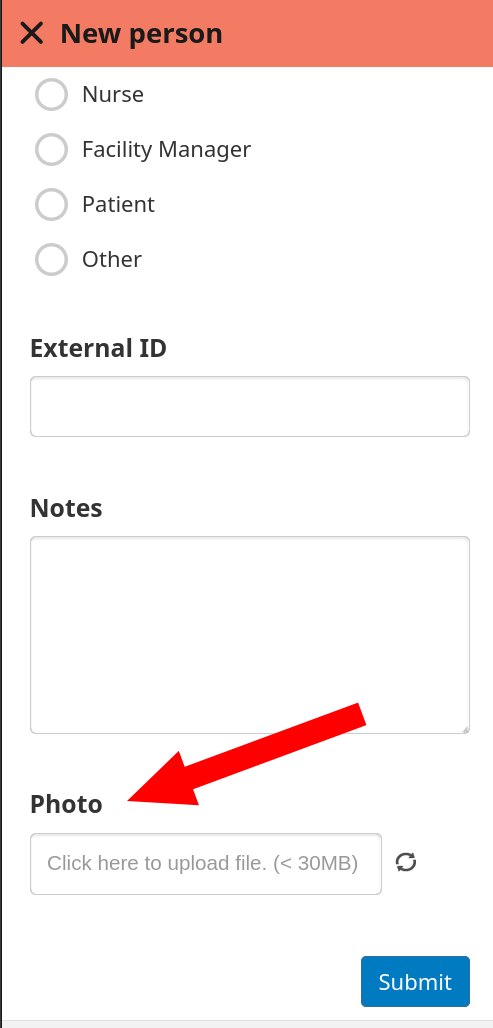
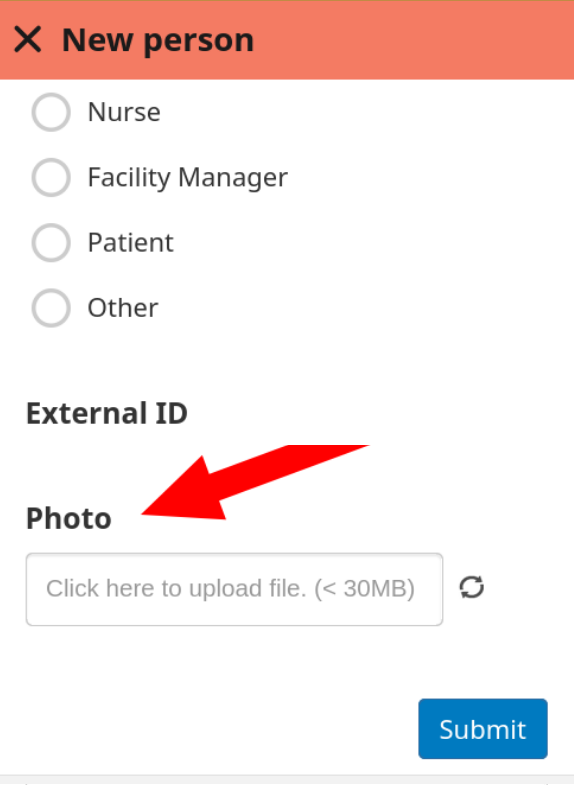
add more images more write ups

diff --git a/content/en/releases/5_1_0.md b/content/en/releases/5_1_0.md
@@ -35,7 +35,7 @@ Tasks continue to be an important way that CHWs interact with the CHT to know wh
 
 ### Attachments on contacts
 
-While attachments have been possible on 
+While attachments [have been possible](/building/forms/app/#uploading-binary-attachments) on app forms for some time, this feature is now available on contact forms too. This enables deployments that need to attach, for example, a photo of a person or household to a contact.  The [documentation has more information](/building/forms/contact/#uploading-binary-attachments) or check out [the video](https://github.com/medic/cht-core/issues/10509#issuecomment-3848114424) showing how it works.
 
 {{< cards >}}
 {{< card  image="../images/5_1_0_contact_attachment.png" method="resize" title="A contact form with a 'Photo' field enabling an attachment">}}
@@ -43,11 +43,25 @@ While attachments have been possible on
 
 ### Android notifications
 
+Some time ago, a member of the CHT community reached out to talk about the importance of native [Android notifications](https://developer.android.com/develop/ui/views/notifications/build-notification) that can exist outside the CHT:
+
+> CHT ... needs to have some notifications for users as a way to remind ... users on app activities such as pending tasks and incoming messages. Currently the user needs to open the app's tasks/messages tab to get and update on these items. A notification feature can help in the usability by managing interactions with the app.
+ 
+The requirement of launching the CHT to see what was important was holding back users. This is now solved in 5.1.0 with the introduction of the Android Notification feature which compliments the release of [CHT Android 1.7](https://github.com/medic/cht-android/releases/tag/v1.7.0) which adds support for the CHT feature. To find out more, [check out the documentation](https://docs.communityhealthtoolkit.org/building/tasks/tasks-overview/#android-task-alertsnotifications) or see a [video from a round up call](https://forum.communityhealthtoolkit.org/t/january-2026-round-up-highlights-and-recording/5493) where the feature was demonstrated.
+
 {{< cards cols="2">}}
 {{< card  image="../images/5_1_0_android_notification.png" title="An Android notification informing the user that a pregnancy visit follow up task is due" >}}
 {{< /cards >}}
 
 ### Task filtering GUI
+
+As a CHT deployment grows in number of patients it cares for, inherently the CHW delivering this care must juggle more tasks.  When there's too many tasks, critical house visits may be missed.  The community let us know the CHT could be improved to better handle this:
+
+> Currently [our] program has more than 10 [workflows, but] when Community Health Nurses (CHNs) provide services in the community, they face challenges in navigating the CHIS app. With numerous tasks listed, it becomes difficult to scroll through and identify specific follow-up tasks for each use case.
+> 
+> To improve efficiency, I suggest implementing a filter option (similar to the reporting feature) that allows CHNs to select a specific form/use case and view only the relevant tasks they need to complete.
+
+
 
 {{< cards  cols="2">}}
 {{< card  image="../images/5_1_0_task_filters.png" method="resize" title="A Filter interface allowing to show overdue vs not overdue and delivery vs pregnancy home visit types">}}
